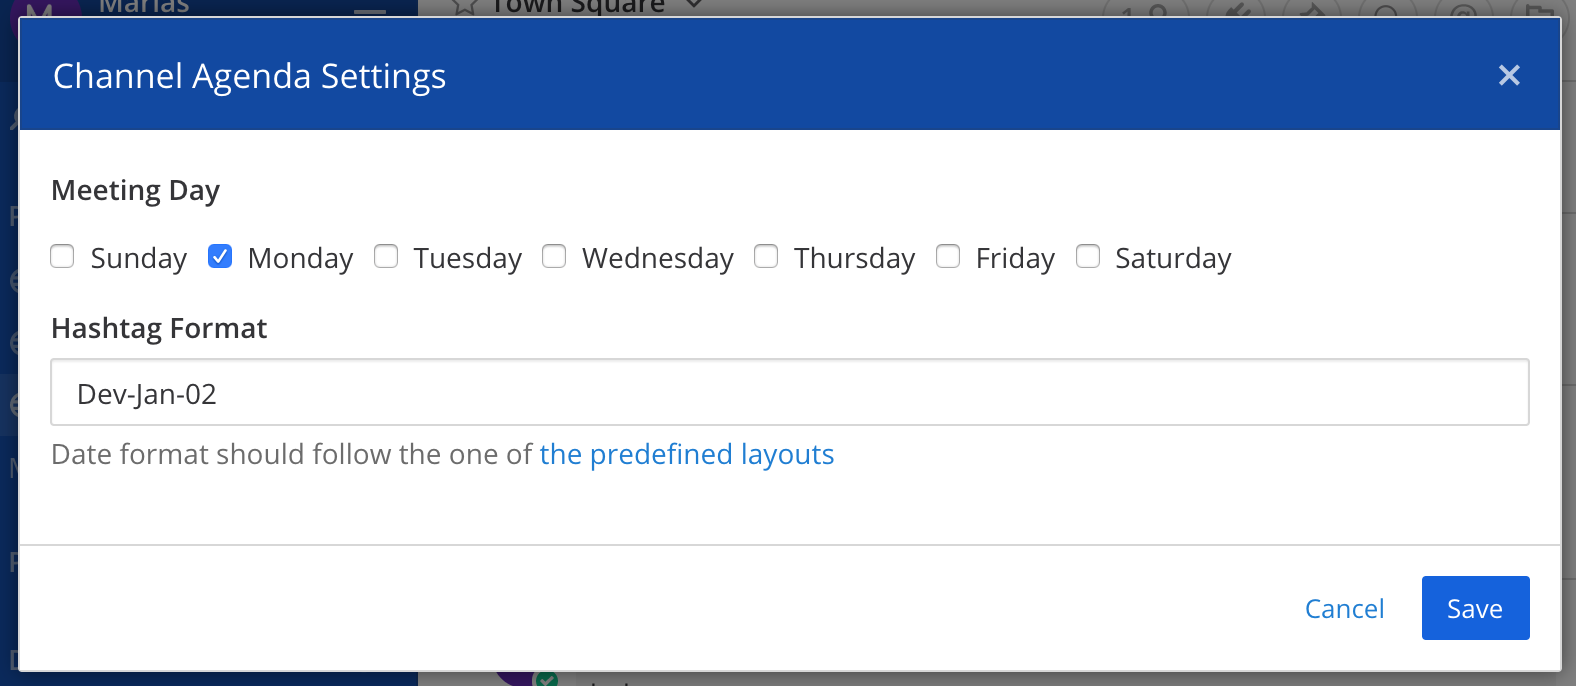
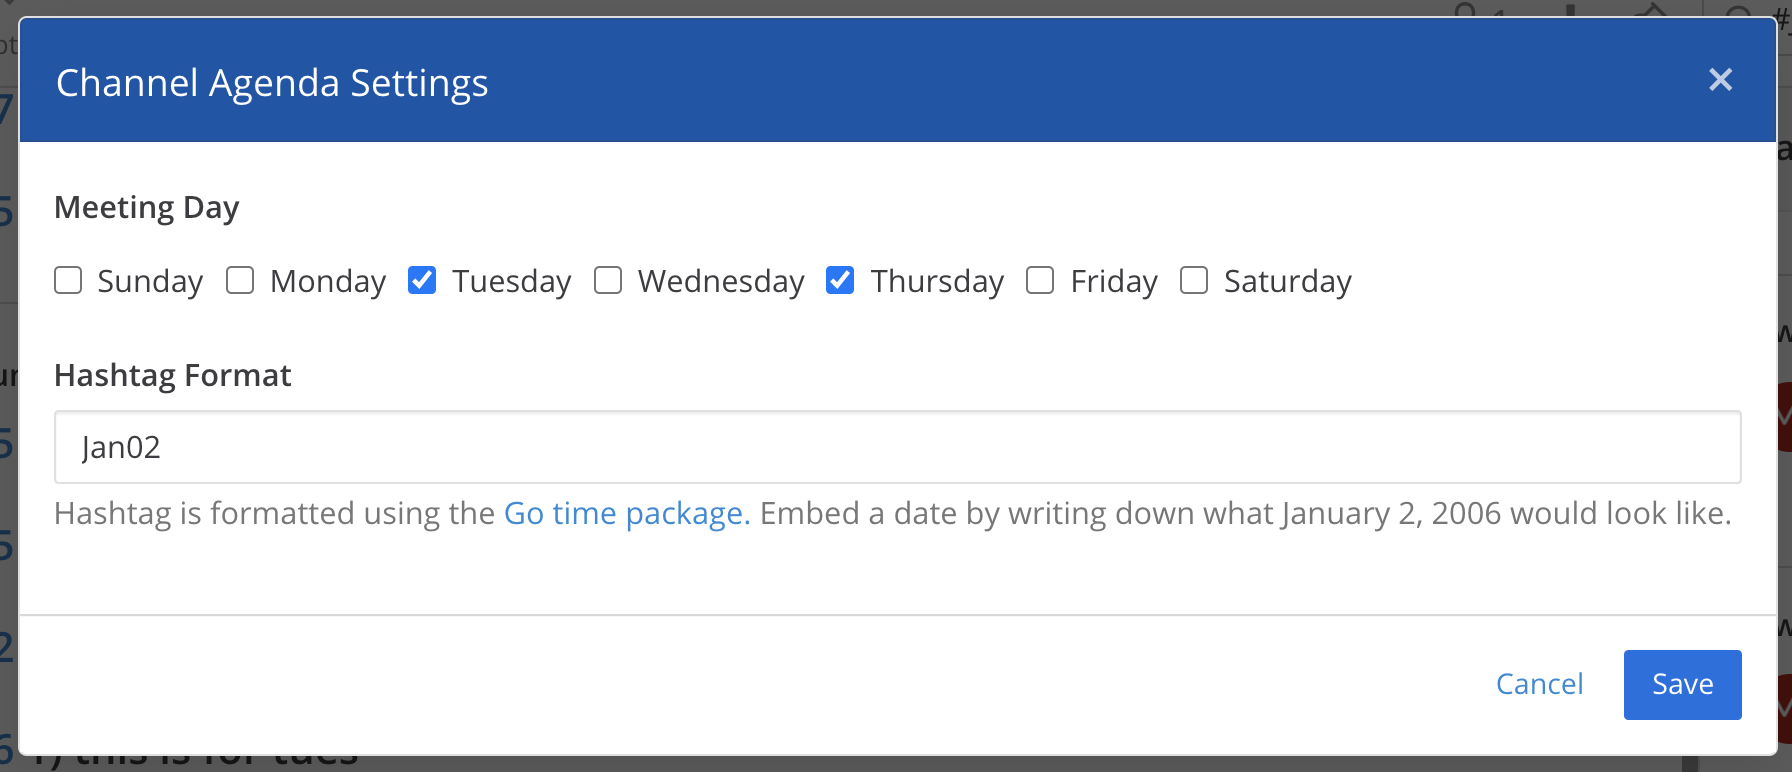
GH-9 - Added support for multiple meetings per week (#46)
* Added support for multiple meetings per week

* PR Feedback

* Update Readme image

* Linting

* Added support for weekday in queue and list commands

* Updated README

* Added meeting days to autocomplete

* Fixed issue with next-week

* Linting

Changed region(s): [[0.0, 0.0, 1.0, 1.0]]

diff --git a/webapp/src/components/meeting_settings/meeting_settings.jsx b/webapp/src/components/meeting_settings/meeting_settings.jsx
@@ -17,8 +17,8 @@ export default class MeetingSettingsModal extends React.PureComponent {
         super(props);
 
         this.state = {
-            hashtag: null,
-            weekday: 0,
+            hashtag: 'Jan02',
+            weekdays: [1],
         };
     }
 
@@ -31,7 +31,7 @@ export default class MeetingSettingsModal extends React.PureComponent {
             // eslint-disable-next-line react/no-did-update-set-state
             this.setState({
                 hashtag: this.props.meeting.hashtagFormat,
-                weekday: this.props.meeting.schedule,
+                weekdays: this.props.meeting.schedule || [],
             });
         }
     }
@@ -43,8 +43,19 @@ export default class MeetingSettingsModal extends React.PureComponent {
     }
 
     handleCheckboxChanged = (e) => {
+        const changeday = Number(e.target.value);
+        let changedWeekdays = Object.assign([], this.state.weekdays);
+
+        if (e.target.checked && !this.state.weekdays.includes(changeday)) {
+            // Add the checked day
+            changedWeekdays = [...changedWeekdays, changeday];
+        } else if (!e.target.checked && this.state.weekdays.includes(changeday)) {
+            // Remove the unchecked day
+            changedWeekdays.splice(changedWeekdays.indexOf(changeday), 1);
+        }
+
         this.setState({
-            weekday: Number(e.target.value),
+            weekdays: changedWeekdays,
         });
     }
 
@@ -52,17 +63,13 @@ export default class MeetingSettingsModal extends React.PureComponent {
         this.props.saveMeetingSettings({
             channelId: this.props.channelId,
             hashtagFormat: this.state.hashtag,
-            schedule: this.state.weekday,
+            schedule: this.state.weekdays.sort(),
         });
 
         this.props.close();
     }
 
     getDaysCheckboxes() {
-        // weekday is based on the server time.Weekday
-        // where the week array starts on Sunday = 0
-        const meetingDay = this.state.weekday ? this.state.weekday : 0;
-
         const weekDays = ['Sunday', 'Monday', 'Tuesday', 'Wednesday', 'Thursday', 'Friday', 'Saturday'];
 
         const checkboxes = weekDays.map((weekday, i) => {
@@ -75,7 +82,7 @@ export default class MeetingSettingsModal extends React.PureComponent {
                         key={weekday}
                         type='checkbox'
                         value={i}
-                        checked={i === meetingDay}
+                        checked={this.state.weekdays.includes(i)}
                         onChange={this.handleCheckboxChanged}
                     /> {weekday}
                 </label>);

diff --git a/server/command.go b/server/command.go
@@ -3,6 +3,7 @@ package main
 import (
 	"fmt"
 	"strings"
+	"time"
 
 	"github.com/mattermost/mattermost-server/v5/model"
 	"github.com/mattermost/mattermost-server/v5/plugin"
@@ -16,8 +17,8 @@ const (
 )
 
 const helpCommandText = "###### Mattermost Agenda Plugin - Slash Command Help\n" +
-	"\n* `/agenda queue [next-week (optional)] message` - Queue `message` as a topic on the next meeting. If `next-week` is provided, it will queue for the meeting in the next calendar week. \n" +
-	"* `/agenda list [next-week (optional)]` - Show a list of items queued for the next meeting.  If `next-week` is provided, it will list the agenda for the next calendar week. \n" +
+	"\n* `/agenda queue [weekday (optional)] message` - Queue `message` as a topic on the next meeting. If `weekday` is provided, it will queue for the meeting for. \n" +
+	"* `/agenda list [weekday(optional)]` - Show a list of items queued for the next meeting.  If `next-week` is provided, it will list the agenda for the next calendar week. \n" +
 	"* `/agenda setting <field> <value>` - Update the setting with the given value. Field can be one of `schedule` or `hashtag` \n"
 
 func (p *Plugin) registerCommands() error {
@@ -59,7 +60,13 @@ func (p *Plugin) executeCommandList(args *model.CommandArgs) *model.CommandRespo
 	split := strings.Fields(args.Command)
 	nextWeek := len(split) > 2 && split[2] == "next-week"
 
-	hashtag, err := p.GenerateHashtag(args.ChannelId, nextWeek)
+	weekday := -1
+	if !nextWeek && len(split) > 2 {
+		parsedWeekday, _ := parseSchedule(split[2])
+		weekday = int(parsedWeekday)
+	}
+
+	hashtag, err := p.GenerateHashtag(args.ChannelId, nextWeek, weekday)
 	if err != nil {
 		return responsef("Error calculating hashtags")
 	}
@@ -95,11 +102,11 @@ func (p *Plugin) executeCommandSetting(args *model.CommandArgs) *model.CommandRe
 	switch field {
 	case "schedule":
 		//set schedule
-		weekDayInt, err := parseSchedule(value)
+		weekdayInt, err := parseSchedule(value)
 		if err != nil {
 			return responsef(err.Error())
 		}
-		meeting.Schedule = weekDayInt
+		meeting.Schedule = []time.Weekday{weekdayInt}
 
 	case "hashtag":
 		//set hashtag
@@ -123,16 +130,23 @@ func (p *Plugin) executeCommandQueue(args *model.CommandArgs) *model.CommandResp
 	}
 
 	nextWeek := false
+	weekday := -1
 	message := strings.Join(split[2:], " ")
 
 	if split[2] == "next-week" {
 		nextWeek = true
+	} else {
+		parsedWeekday, _ := parseSchedule(split[2])
+		weekday = int(parsedWeekday)
+	}
+
+	if nextWeek || weekday > -1 {
 		message = strings.Join(split[3:], " ")
 	}
 
-	hashtag, error := p.GenerateHashtag(args.ChannelId, nextWeek)
+	hashtag, error := p.GenerateHashtag(args.ChannelId, nextWeek, weekday)
 	if error != nil {
-		return responsef("Error calculating hashtags")
+		return responsef("Error calculating hashtags. Check the meeting settings for this channel.")
 	}
 
 	searchResults, appErr := p.API.SearchPostsInTeamForUser(args.TeamId, args.UserId, model.SearchParameter{Terms: &hashtag})
@@ -172,16 +186,11 @@ func createAgendaCommand() *model.Command {
 	agenda := model.NewAutocompleteData(commandTriggerAgenda, "[command]", "Available commands: list, queue, setting, help")
 
 	list := model.NewAutocompleteData("list", "", "Show a list of items queued for the next meeting")
-	optionalListNextWeek := model.NewAutocompleteData("next-week", "(optional)", "If `next-week` is provided, it will list the agenda for the next calendar week.")
-	list.AddCommand(optionalListNextWeek)
+	list.AddDynamicListArgument("Day of the week for when to queue the meeting", "/api/v1/list-meeting-days-autocomplete", false)
 	agenda.AddCommand(list)
 
 	queue := model.NewAutocompleteData("queue", "", "Queue `message` as a topic on the next meeting.")
-	queue.AddStaticListArgument("If `next-week` is provided, it will queue for the meeting in the next calendar week.", false, []model.AutocompleteListItem{{
-		HelpText: "If `next-week` is provided, it will queue for the meeting in the next calendar week.",
-		Hint:     "(optional)",
-		Item:     "next-week",
-	}})
+	queue.AddDynamicListArgument("Day of the week for when to queue the meeting", "/api/v1/meeting-days-autocomplete", false)
 	queue.AddTextArgument("Message for the next meeting date.", "[message]", "")
 	agenda.AddCommand(queue)
 

diff --git a/server/plugin.go b/server/plugin.go
@@ -2,6 +2,7 @@ package main
 
 import (
 	"encoding/json"
+	"fmt"
 	"io/ioutil"
 	"net/http"
 	"sync"
@@ -34,6 +35,10 @@ func (p *Plugin) ServeHTTP(c *plugin.Context, w http.ResponseWriter, r *http.Req
 	switch path := r.URL.Path; path {
 	case "/api/v1/settings":
 		p.httpMeetingSettings(w, r)
+	case "/api/v1/meeting-days-autocomplete":
+		p.httpMeetingDaysAutocomplete(w, r, false)
+	case "/api/v1/list-meeting-days-autocomplete":
+		p.httpMeetingDaysAutocomplete(w, r, true)
 	default:
 		http.NotFound(w, r)
 	}
@@ -127,6 +132,46 @@ func (p *Plugin) writeJSON(w http.ResponseWriter, v interface{}) {
 	if err != nil {
 		p.API.LogWarn("Failed to write JSON response", "error", err.Error())
 		w.WriteHeader(http.StatusInternalServerError)
+		return
+	}
+}
+
+func (p *Plugin) httpMeetingDaysAutocomplete(w http.ResponseWriter, r *http.Request, listCommand bool) {
+	query := r.URL.Query()
+	meeting, err := p.GetMeeting(query.Get("channel_id"))
+	if err != nil {
+		http.Error(w, fmt.Sprintf("Error getting meeting days: %s", err.Error()), http.StatusInternalServerError)
+	}
+
+	ret := make([]model.AutocompleteListItem, 0)
+
+	helpText := "Queue this item "
+	if listCommand {
+		helpText = "List items "
+	}
+
+	for _, meetingDay := range meeting.Schedule {
+		ret = append(ret, model.AutocompleteListItem{
+			Item:     meetingDay.String(),
+			HelpText: fmt.Sprintf(helpText+"for %s's meeting", meetingDay.String()),
+			Hint:     "(optional)",
+		})
+	}
+	ret = append(ret, model.AutocompleteListItem{
+		Item:     "next-week",
+		HelpText: fmt.Sprintf(helpText + "for the first meeting next week"),
+		Hint:     "(optional)",
+	})
+
+	jsonBytes, err := json.Marshal(ret)
+	if err != nil {
+		http.Error(w, fmt.Sprintf("Error getting meeting days: %s", err.Error()), http.StatusInternalServerError)
+		return
+	}
+
+	w.Header().Set("Content-Type", "application/json")
+	if _, err = w.Write(jsonBytes); err != nil {
+		http.Error(w, fmt.Sprintf("Error getting meeting days: %s", err.Error()), http.StatusInternalServerError)
 		return
 	}
 }

diff --git a/server/utils.go b/server/utils.go
@@ -1,10 +1,11 @@
 package main
 
 import (
-	"errors"
 	"strconv"
 	"strings"
 	"time"
+
+	"github.com/pkg/errors"
 )
 
 const (
@@ -49,13 +50,36 @@ func parseScheduleNumber(val string) (time.Weekday, error) {
 	return time.Weekday(weekdayInt), nil
 }
 
-// nextWeekdayDate calculates the date of the next given weekday
-// based on today's date.
+// nextWeekdayDate calculates the date of the next weekday from the given
+// list of days from today's date.
 // If nextWeek is true, it will be based on the next calendar week.
-func nextWeekdayDate(day time.Weekday, nextWeek bool) time.Time {
-	daysTill := daysTillNextWeekday(time.Now().Weekday(), day, nextWeek)
+func nextWeekdayDateInWeek(meetingDays []time.Weekday, nextWeek bool) (*time.Time, error) {
+	if len(meetingDays) == 0 {
+		return nil, errors.New("missing weekdays to calculate date")
+	}
 
-	return time.Now().AddDate(0, 0, daysTill)
+	todayWeekday := time.Now().Weekday()
+
+	// Find which meeting weekday to calculate the date for
+	meetingDay := meetingDays[0]
+	for _, day := range meetingDays {
+		if todayWeekday <= day {
+			meetingDay = day
+			break
+		}
+	}
+
+	return nextWeekdayDate(meetingDay, nextWeek)
+}
+
+// nextWeekdayDate calculates the date of the next given weekday
+// from today's date.
+// If nextWeek is true, it will be based on the next calendar week.
+func nextWeekdayDate(meetingDay time.Weekday, nextWeek bool) (*time.Time, error) {
+	daysTill := daysTillNextWeekday(time.Now().Weekday(), meetingDay, nextWeek)
+	nextDate := time.Now().AddDate(0, 0, daysTill)
+
+	return &nextDate, nil
 }
 
 /// daysTillNextWeekday calculates the amount of days between two weekdays.

diff --git a/server/meeting.go b/server/meeting.go
@@ -8,9 +8,9 @@ import (
 
 // Meeting represents a meeting agenda
 type Meeting struct {
-	ChannelID     string       `json:"channelId"`
-	Schedule      time.Weekday `json:"schedule"`
-	HashtagFormat string       `json:"hashtagFormat"` //Default: Jan02
+	ChannelID     string         `json:"channelId"`
+	Schedule      []time.Weekday `json:"schedule"`
+	HashtagFormat string         `json:"hashtagFormat"` //Default: Jan02
 }
 
 // GetMeeting returns a meeting
@@ -28,7 +28,7 @@ func (p *Plugin) GetMeeting(channelID string) (*Meeting, error) {
 	} else {
 		//Return a default value
 		meeting = &Meeting{
-			Schedule:      time.Thursday,
+			Schedule:      []time.Weekday{time.Thursday},
 			HashtagFormat: "Jan02",
 			ChannelID:     channelID,
 		}
@@ -52,13 +52,24 @@ func (p *Plugin) SaveMeeting(meeting *Meeting) error {
 }
 
 // GenerateHashtag returns a meeting hashtag
-func (p *Plugin) GenerateHashtag(channelID string, nextWeek bool) (string, error) {
+func (p *Plugin) GenerateHashtag(channelID string, nextWeek bool, weekday int) (string, error) {
 	meeting, err := p.GetMeeting(channelID)
 	if err != nil {
 		return "", err
 	}
 
-	meetingDate := nextWeekdayDate(meeting.Schedule, nextWeek)
+	var meetingDate *time.Time
+	if weekday > -1 {
+		// Get date for given day
+		if meetingDate, err = nextWeekdayDate(time.Weekday(weekday), nextWeek); err != nil {
+			return "", err
+		}
+	} else {
+		// Get date for the list of days of the week
+		if meetingDate, err = nextWeekdayDateInWeek(meeting.Schedule, nextWeek); err != nil {
+			return "", err
+		}
+	}
 
 	hashtag := fmt.Sprintf("#%v", meetingDate.Format(meeting.HashtagFormat))
 

diff --git a/server/plugin_test.go b/server/plugin_test.go
@@ -23,7 +23,7 @@ func TestServeHTTP(t *testing.T) {
 		// Mock get default meeting
 		defaultMeeting := &Meeting{
 			ChannelID:     "myChannelId",
-			Schedule:      time.Thursday,
+			Schedule:      []time.Weekday{time.Thursday},
 			HashtagFormat: "Jan02",
 		}
 
@@ -50,7 +50,7 @@ func TestServeHTTP(t *testing.T) {
 		// Mock set meeting
 		meeting := &Meeting{
 			ChannelID:     "myChannelId",
-			Schedule:      time.Tuesday,
+			Schedule:      []time.Weekday{time.Tuesday},
 			HashtagFormat: "MyMeeting-Jan-02",
 		}
 

diff --git a/README.md b/README.md
@@ -27,24 +27,24 @@ The meeting settings for each channel can be configured in the Channel Header Dr
 
 Meeting settings include:
 
-- Schedule Day: Day of the week when the meeting is scheduled.  Monday is `1`
+- Schedule Day: Days of the week when the meeting is scheduled.
 - Hashtag Format: The format of the hashtag for the meeting date. The date format is based on [Go date and time formatting](https://yourbasic.org/golang/format-parse-string-time-date-example/#standard-time-and-date-formats)
 
 #### Slash Commands to manage the meeting agenda:
 
 ```
-/agenda queue [next-week] message
+/agenda queue [meetingDay] message
 ```
-Creates a post for the user with the given `message` for the next meeting date. The configured hashtag will precede the `message`.
-If `next-week` is indicated (optional), it will use the date of the meeting in the next calendar week. 
+Creates a post for the user with the given `message` for the next meeting date or the specified `meetingDay` (optional). The configured hashtag will precede the `message`.
+The meeting day supports long (Monday, Tuesday), short name (Mon Tue), number (0-6) or `next-week`. If `next-week` is indicated, it will use the date of the first meeting in the next calendar week. 
 
 ![post_example](./assets/postExample.png)
 
 ```
-/agenda list [next-week]
+/agenda list [meetingDay]
 ```
-Executes a search of the hashtag of the next meeting, opening the RHS with all the posts with that hashtag. 
-If `next-week` is indicated (optional), it will use the date of the meeting in the next calendar week. 
+Executes a search of the hashtag of the next meeting or the specified `meetingDay` (optional), opening the RHS with all the posts with that hashtag. 
+The meeting day supports long (Monday, Tuesday), short name (Mon Tue), number (0-6) or `next-week`. If `next-week` is indicated, it will use the date of the first meeting in the next calendar week. 
 
 ```
 /agenda setting field value
@@ -60,7 +60,6 @@ Updates the given setting with the provided value for the meeting settings of th
 
 - Mark items as resolved or queue for next week. 
 - Queue a post using a menu option in the post dot menu. 
-- Handle multiple meeting days in a week.
 - Handle time in meeting schedule. 
 
 ## Contributing
